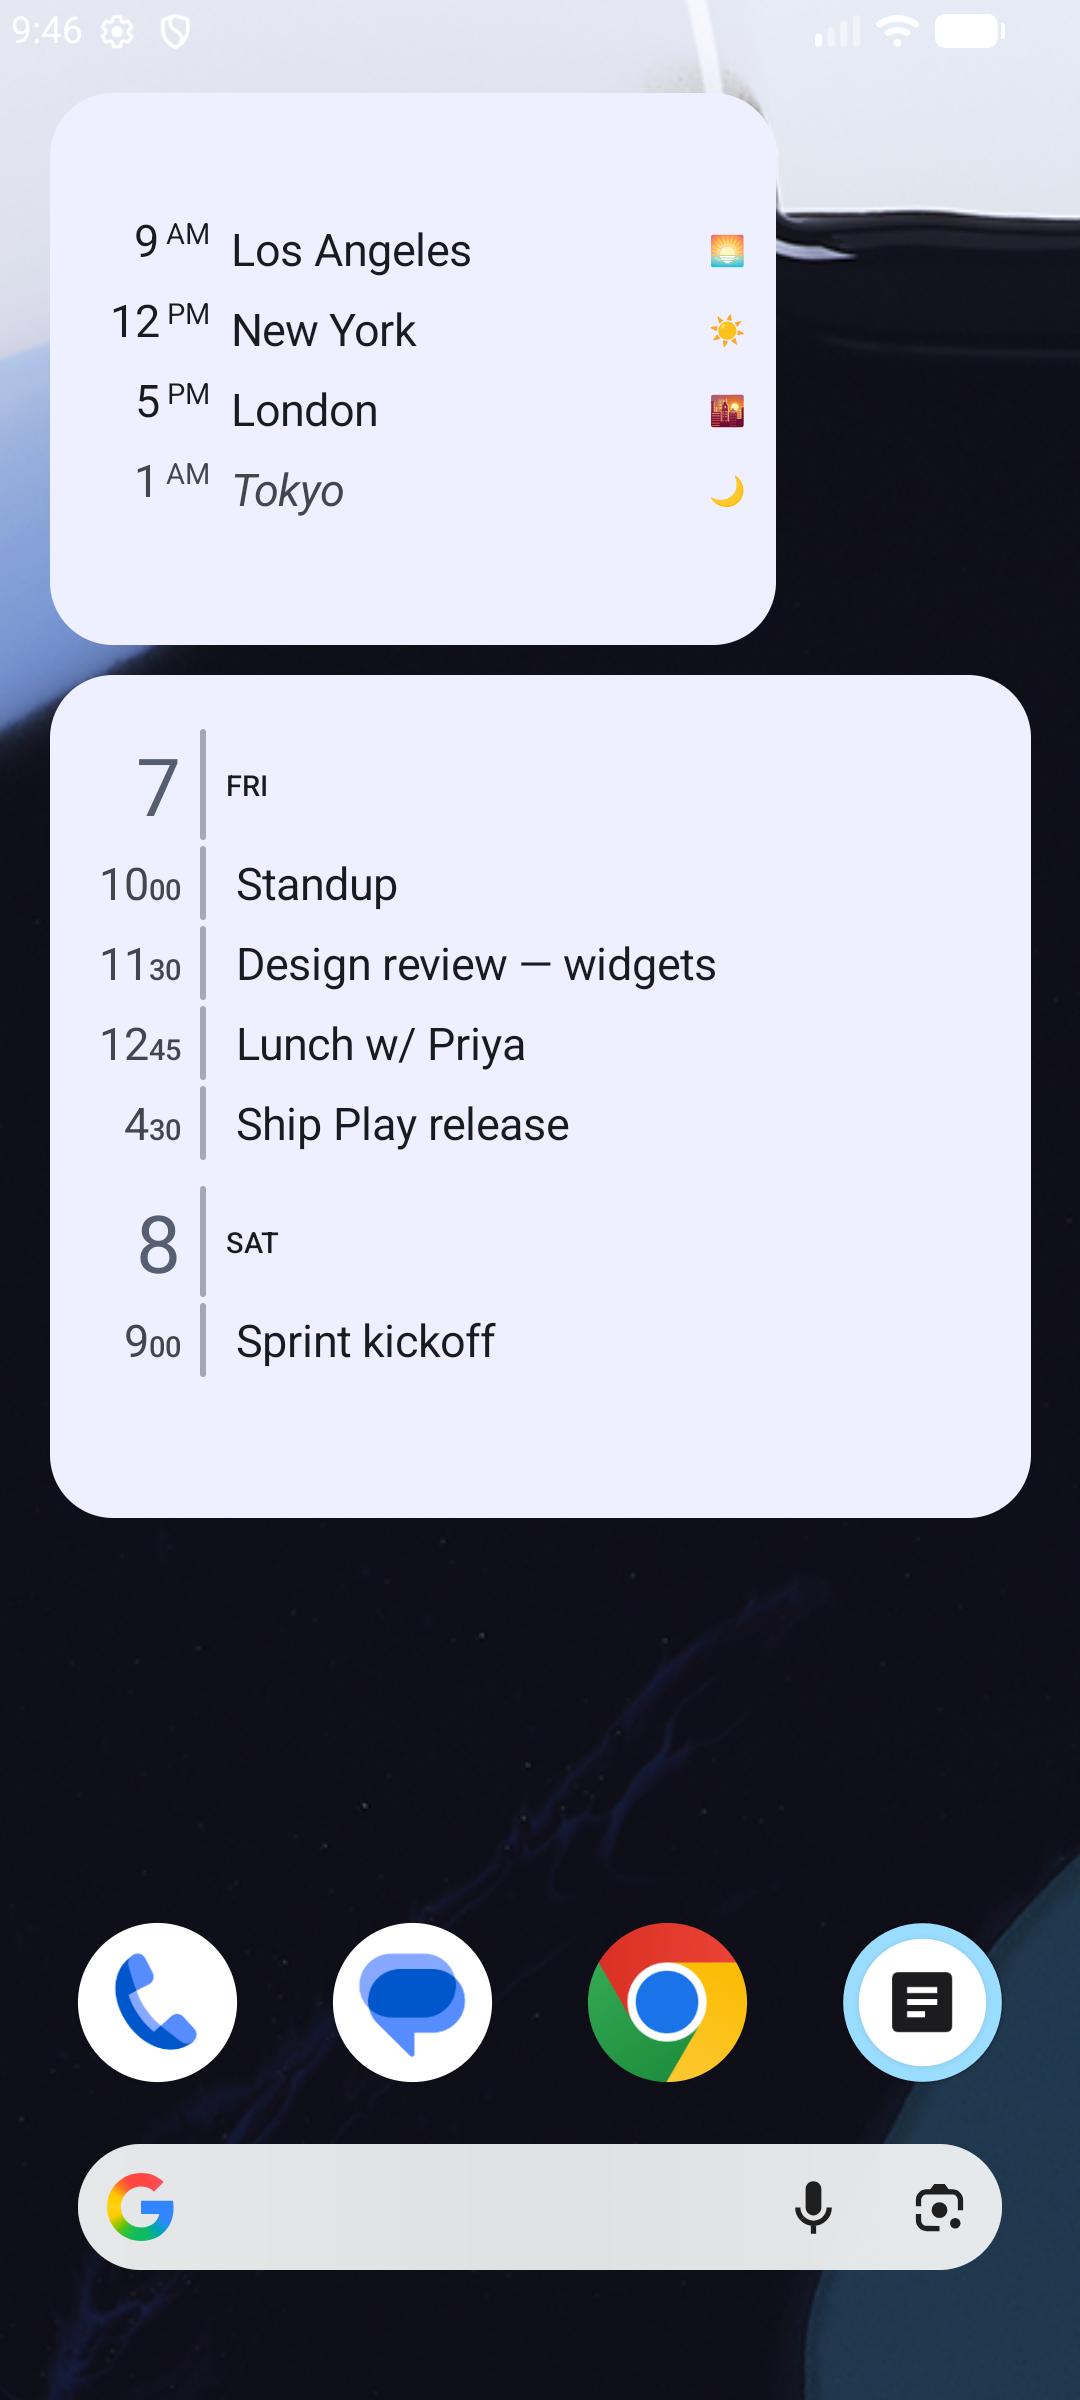
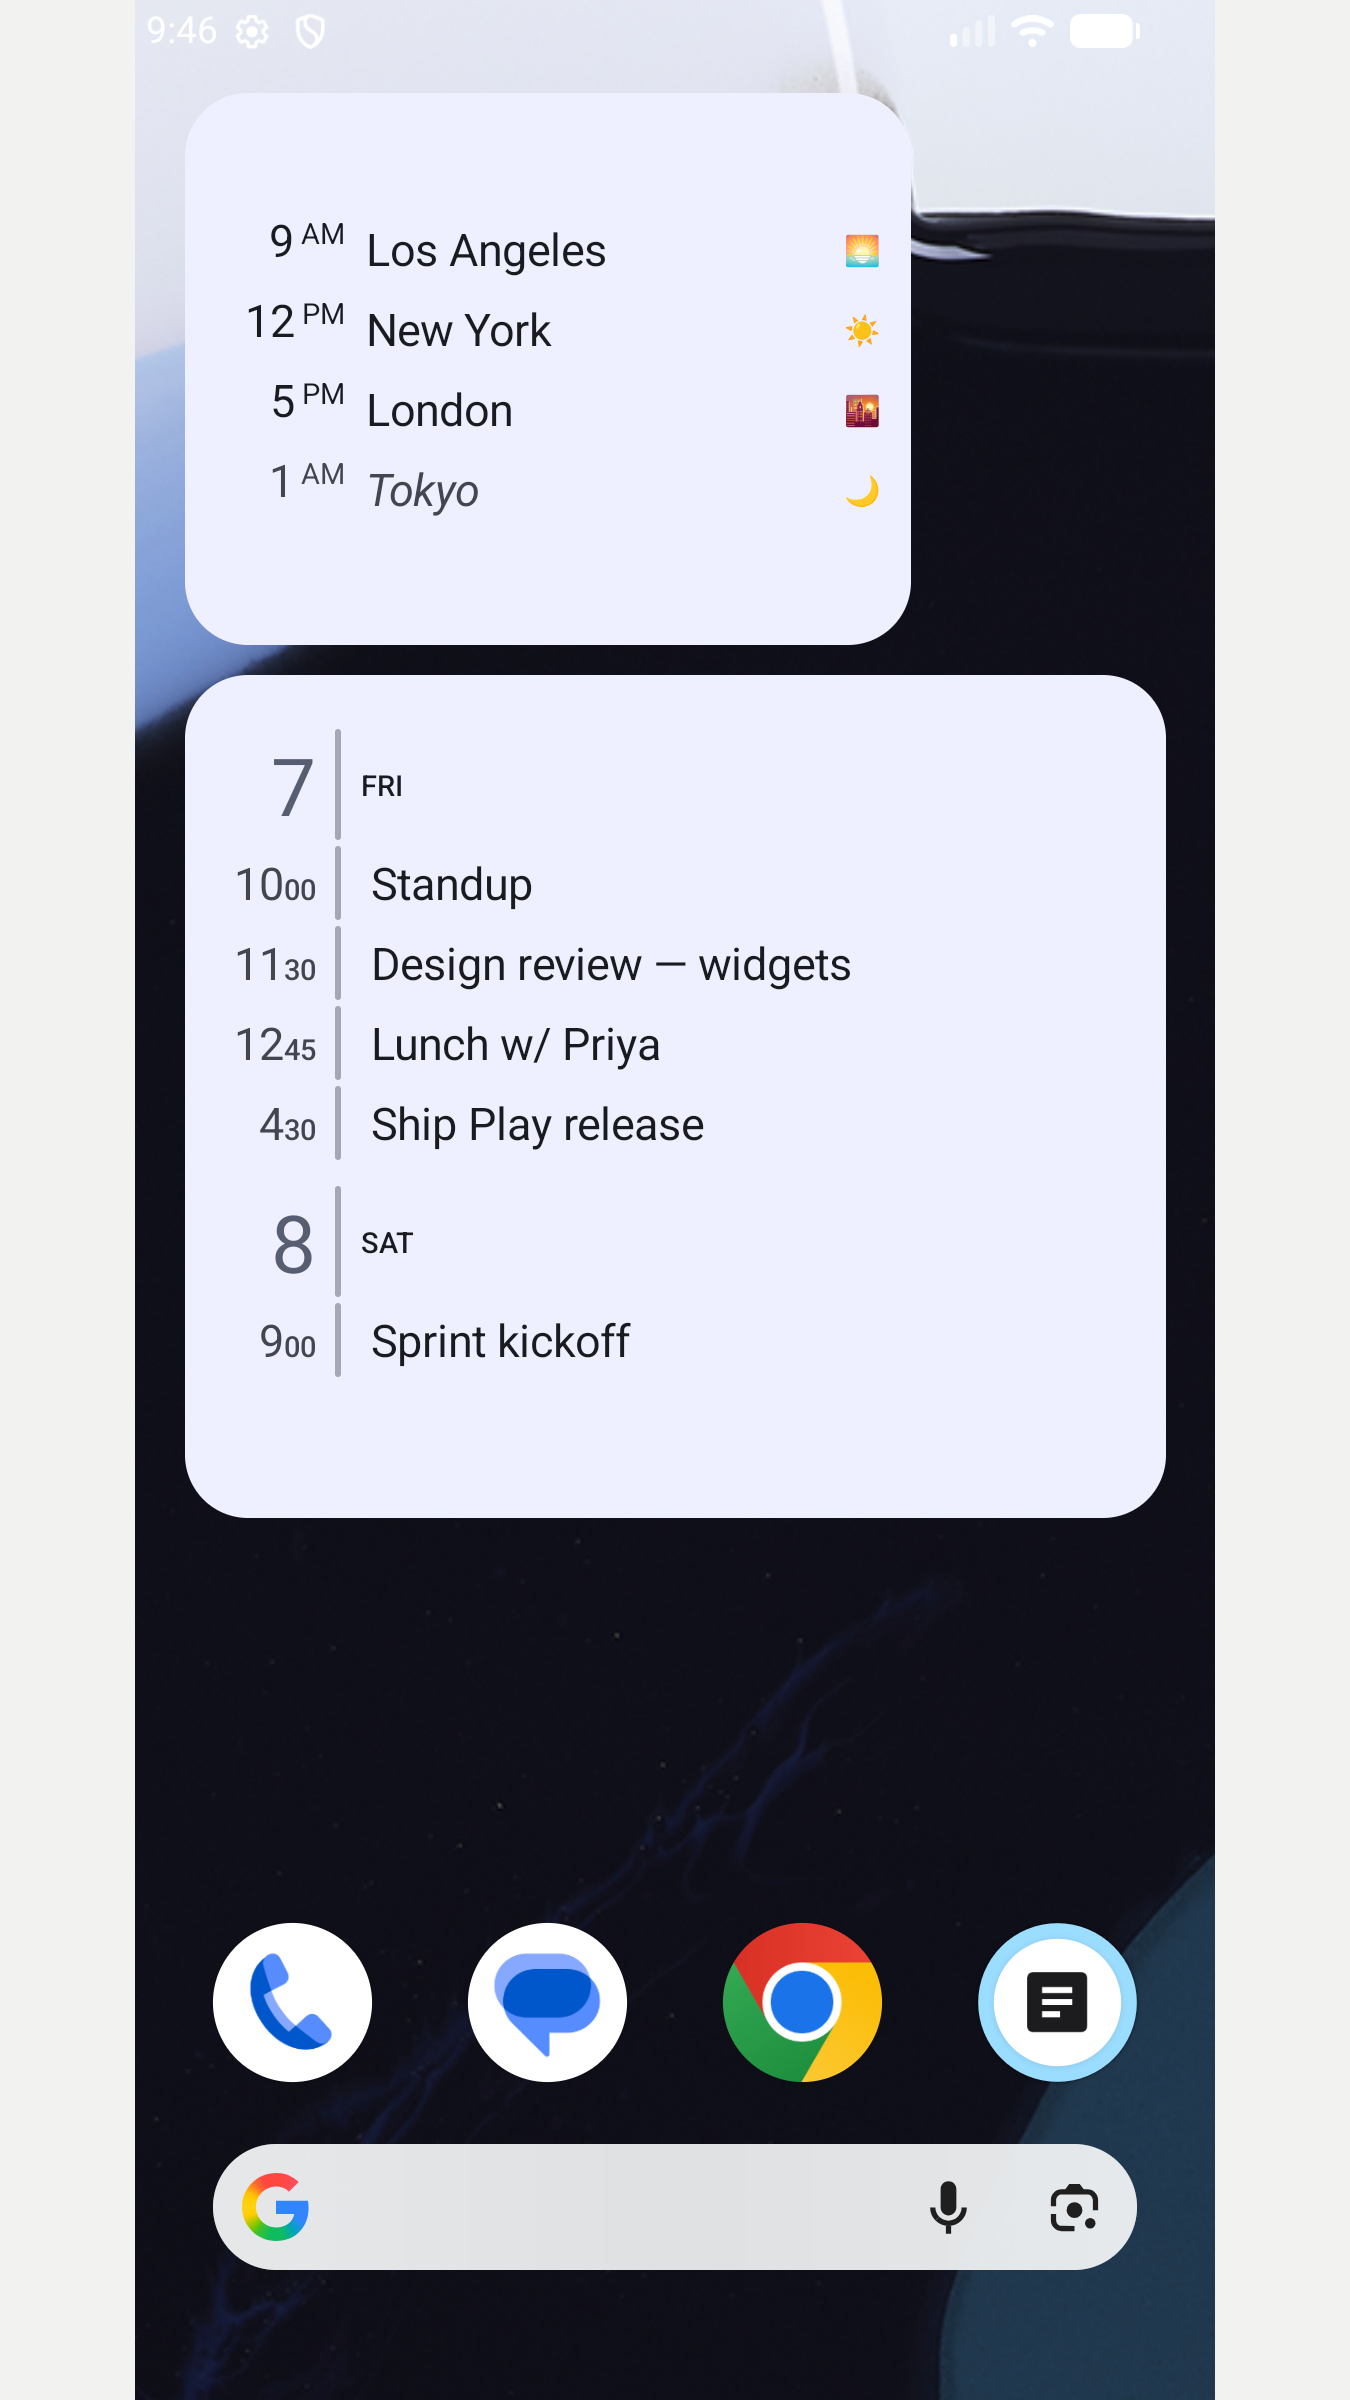
fix: Play screenshots to a compliant 9:16; correct short description
Screenshots were 1080x2400 (2.222:1), outside both the 9:16 the console asks
for and the 2:1 Play accepts in practice — a likely rejection. Framing them on
the brand ground to exactly 1350x2400 fixes the ratio without cropping any UI;
the unframed captures stay in play/.raw/ for future re-framing.

The short description also claimed reminders, which the Android app does not
have (no system reminders store — see the parity doc). Describing a feature the
app lacks is a metadata policy problem as well as a factual one.

diff --git a/android/play/listing.md b/android/play/listing.md
@@ -32,9 +32,9 @@ Chronograph
 ## Short description (80 max)
 
 ```
-Your calendar, reminders and time zones as clean text on your home screen.
+Your calendar and time zones as clean, readable text on your home screen.
 ```
-*(74 characters)*
+*(73 characters)*
 
 ## Full description (4000 max)
 
